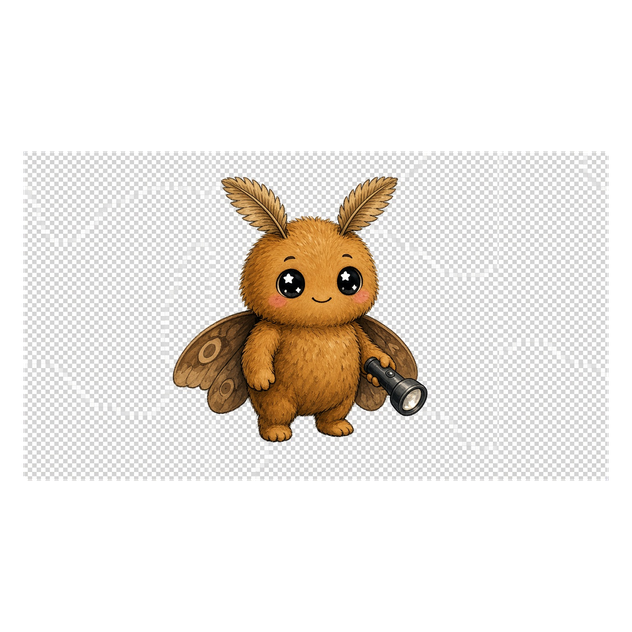
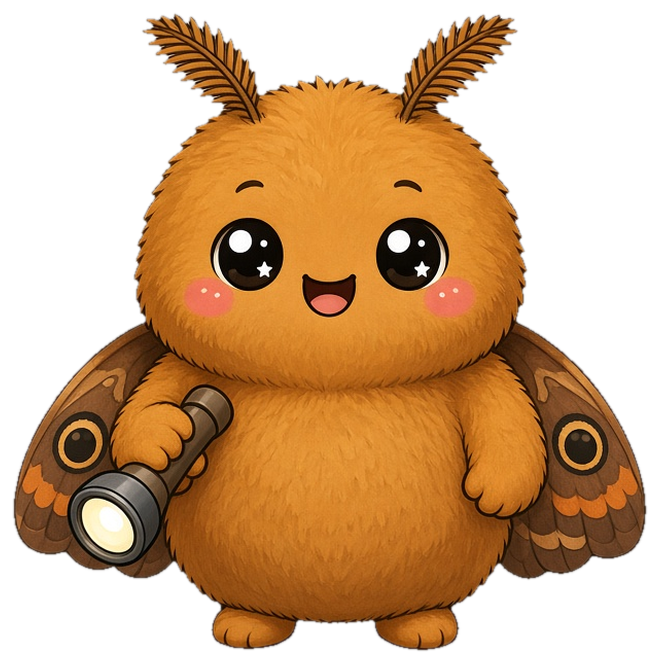
Repaint Dusty, Mira, Pixel, Rip idle jackets with clean cutouts and per-buddy sizing

diff --git a/src/components/GreenhouseScene.css b/src/components/GreenhouseScene.css
@@ -24,6 +24,12 @@
   filter: drop-shadow(1px 3px 0 rgba(42, 64, 48, 0.16));
 }
 
+/* Per-buddy widths so every jacket stands about as tall as Sprout */
+.gh-actor--basement { width: clamp(3.7rem, 10.4vw, 6.15rem); }
+.gh-actor--closet { width: clamp(3.1rem, 8.7vw, 5.15rem); }
+.gh-actor--desktop { width: clamp(3.9rem, 10.9vw, 6.4rem); }
+.gh-actor--workshop { width: clamp(3.05rem, 8.6vw, 5.05rem); }
+
 .gh-actor__sprite {
   display: block;
   width: 100%;

diff --git a/src/components/ThemeIdleScene.tsx b/src/components/ThemeIdleScene.tsx
@@ -28,7 +28,7 @@ export function ThemeIdleScene({ theme, sparkles = false }: ThemeIdleSceneProps)
 
   return (
     <div
-      className={`gh-actor gh-actor--idle${sparkles ? ' gh-actor--sparkle' : ''}`}
+      className={`gh-actor gh-actor--idle gh-actor--${theme.toLowerCase()}${sparkles ? ' gh-actor--sparkle' : ''}`}
       style={{
         left: `${IDLE_POS.x}%`,
         top: `${IDLE_POS.y}%`,
